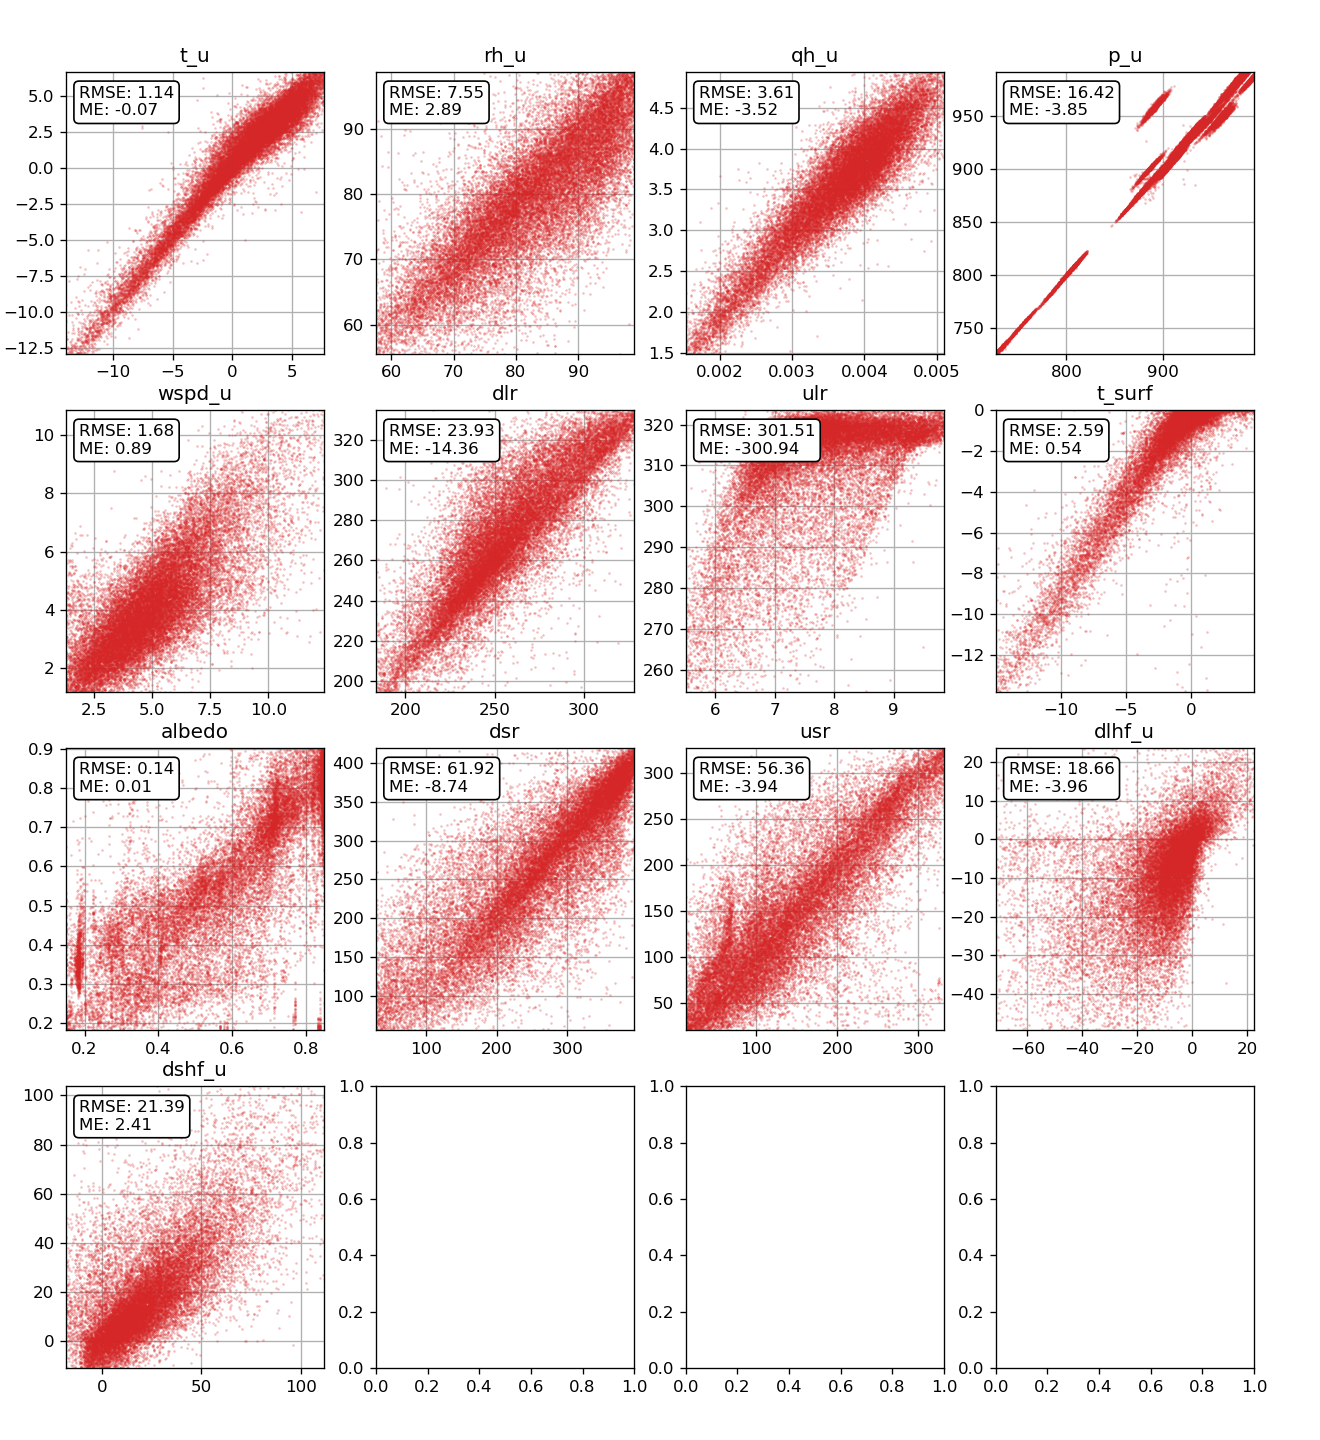
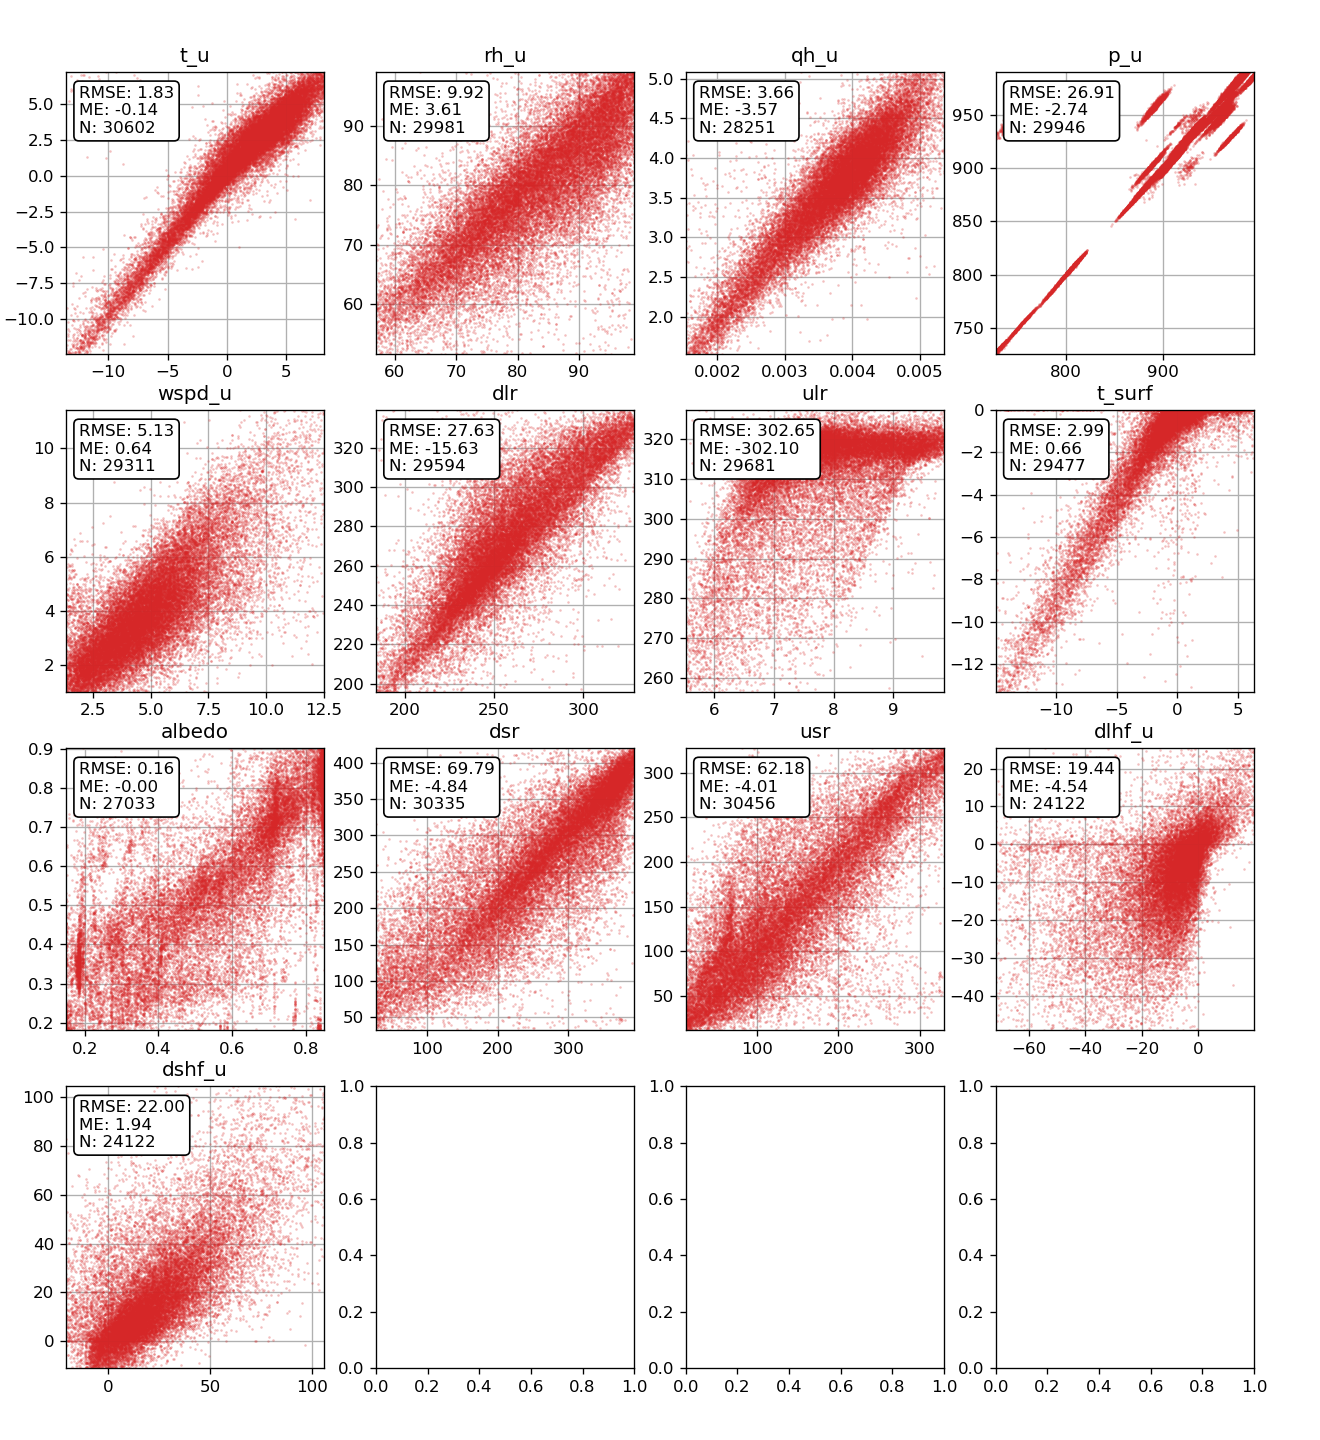
finishing adding gc-net stations

diff --git a/CARRA_evaluation_AWS_scatter.py b/CARRA_evaluation_AWS_scatter.py
@@ -23,33 +23,7 @@ fig_folder = 'figures/CARRA_vs_AWS/'
 variables = ['t_u', 'rh_u','rh_u_cor', 'qh_u','p_u', 'wspd_u','dlr', 'ulr', 
             't_surf',  'albedo', 'dsr', 'dsr_cor',  'usr',  'usr_cor','dlhf_u','dshf_u']
 
-df_meta = pd.read_csv(path_l3+'../AWS_metadata.csv')
-df_meta = df_meta.loc[df_meta.location_type == 'ice sheet']
-df_aws_all = pd.DataFrame()
-for station in df_meta.stid:    
-    try:
-        df_aws = pd.read_csv(path_l3 + station + '/'+station+'_day.csv')[['time']+variables]
-        df_aws.time = pd.to_datetime(df_aws.time, utc=True)
-        df_aws=df_aws.set_index('time')
-    except:
-        try:
-            path_to_gcnet = 'C:/Users/bav/OneDrive - GEUS/Code/PROMICE/GC-Net-Level-1-data-processing/L1/'
-            df_aws = nead.read(path_to_gcnet+'daily/'+station.replace(' ','')+'_daily.csv').to_dataframe()
-        except:
-            path_to_gcnet = 'C:/Users/bav/OneDrive - Geological Survey of Denmark and Greenland/Code/PROMICE/GC-Net-Level-1-data-processing/L1/'
-            df_aws = nead.read(path_to_gcnet+'daily/'+station.replace(' ','')+'_daily.csv').to_dataframe()
-        df_aws.timestamp = pd.to_datetime(df_aws.timestamp)
-        df_aws = df_aws.set_index('timestamp')
-        df_aws = df_aws.rename(columns={
-                    'ISWR':'dsr',  'OSWR':'usr', 
-                    'RH2':'rh_u_uncor','RH2_cor':'rh_u_cor', 'TA2':'t_u',
-                    'VW2':'wspd_u','P':'p_u','LHF':'dlhf_u',
-                    'Alb':'albedo','Q2':'sh_u','SHF':'dshf_u'
-                                        })[variables]
-    df_aws['station'] = station
-    df_aws_all = pd.concat((df_aws_all,df_aws))
-# df_aws_all = df_aws_all.set_index(['time','station'])
-
+# loading CARRA
 df_carra_all = (xr.open_dataset("./data/CARRA_at_AWS.nc")
                 .drop_vars([ 'x','y','surface','valid_time','spatial_ref',
                             'heightAboveGround','step'])[
@@ -67,12 +41,79 @@ df_carra_all = (xr.open_dataset("./data/CARRA_at_AWS.nc")
                         'sshf': 'dshf_u', }))
 df_carra_all = df_carra_all.groupby('stid').resample('D').mean()
 df_carra_all = df_carra_all.reset_index()
+df_carra_all['time'] = pd.to_datetime(df_carra_all.time, utc=True)
+# %% loading station data
 
+df_meta = pd.read_csv(path_l3+'../AWS_metadata.csv')
+df_meta = df_meta.loc[df_meta.location_type == 'ice sheet']
+df_aws_all = pd.DataFrame()
+for station in df_carra_all.stid.unique():    
+    try:
+        df_aws = pd.read_csv(path_l3 + station + '/'+station+'_day.csv')[['time']+variables]
+        df_aws.time = pd.to_datetime(df_aws.time, utc=True)
+        df_aws=df_aws.set_index('time')
+    except:
+        try:
+            path_to_gcnet = 'C:/Users/bav/OneDrive - GEUS/Code/PROMICE/GC-Net-Level-1-data-processing/L1/'
+            df_aws = nead.read(path_to_gcnet+'daily/'+station.replace(' ','')+'_daily.csv').to_dataframe()
+        except:
+            path_to_gcnet = 'C:/Users/bav/OneDrive - Geological Survey of Denmark and Greenland/Code/PROMICE/GC-Net-Level-1-data-processing/L1/'
+            try:
+                df_aws = nead.read(path_to_gcnet+'daily/'+station.replace(' ','')+'_daily.csv').to_dataframe()
+            except Exception as e:
+                print(station, 'skipped')
+                continue
+        df_aws.timestamp = pd.to_datetime(df_aws.timestamp)
+        df_aws = df_aws.set_index('timestamp')
+        df_aws = df_aws.rename(columns={
+                    'ISWR':'dsr',  'OSWR':'usr', 
+                    'RH2':'rh_u_uncor','RH2_cor':'rh_u_cor', 'TA2':'t_u',
+                    'VW2':'wspd_u','P':'p_u','LHF':'dlhf_u',
+                    'Alb':'albedo','Q2':'sh_u','SHF':'dshf_u'
+                                        })[[v for v in variables if v in df_aws.columns]]
+        for v in variables:
+            if v not in df_aws.columns:
+                df_aws[v] = np.nan
+    df_aws['stid'] = station
+    df_aws.index = pd.to_datetime(df_aws.index,utc=True)
+
+    # converting to a pandas dataframe and renaming some of the columns
+    df_carra = df_carra_all.loc[df_carra_all.stid==station,:].rename(columns={
+        't2m': 't_u', 'r2': 'rh_u',  'si10': 'wspd_u', 
+        'sp': 'p_u',  'sh2': 'qh_u', 'ssrd': 'dsr',
+        'ssru': 'usr', 'strd': 'dlr', 'stru': 'ulr','sshf': 'dshf_u',
+        'al': 'albedo', 'skt': 't_surf', 'slhf': 'dlhf_u' }).set_index('time')
+    df_carra['qh_u']  = df_carra.qh_u*1000  # kg/kg to g/kg
+
+    var = 't_u'
+    common_idx = df_aws.loc[df_aws[var].notnull()].index.intersection(df_carra.loc[df_carra[var.replace('_uncor','')].notnull()].index)
+
+    df_carra_filled = df_carra.loc[common_idx].resample('D').asfreq().fillna(method='ffill')
+    df_aws_filled = df_aws.loc[common_idx].resample('D').asfreq().fillna(method='ffill')
+    correlation = df_carra_filled[var.replace('_uncor', '')].corr(df_aws_filled[var])
+    max_corr = 0
+    best_shift = 0
+    
+    for shift in range(-10, 11):
+        df2_shifted = df_aws_filled.shift(shift).copy(deep=True)
+        correlation = df_carra_filled[var.replace('_uncor', '')].corr(df2_shifted[var])
+        if correlation > max_corr:
+            max_corr = correlation
+            best_shift = shift
+    
+    print(station, ", shift:", best_shift)
+    
+    df_aws = df_aws.shift(best_shift)  
+    
+    df_aws_all = pd.concat((df_aws_all,df_aws))
+df_aws_all = df_aws_all.reset_index().rename(columns={'index':'time'}).set_index(['time','stid'])
+
+# %% 
 station_overview = df_carra_all[['stid','latitude','longitude','altitude','altitude_mod']].drop_duplicates()
 station_overview['altitude_diff'] = station_overview.altitude_mod - station_overview.altitude
 station_overview.to_csv('station_overview.tsv', sep='\t')
 
-# %% 
+# %% Scatter all
 variables = ['t_u', 'rh_u', 'qh_u', 'p_u', 'wspd_u', 'dlr', 'ulr',
  't_surf', 'albedo', 'dsr', 'usr', 'dlhf_u', 'dshf_u']
 fig, ax = plt.subplots(4,4, figsize=(11, 12))
@@ -81,16 +122,17 @@ ax=ax.flatten()
             
 for i, var in enumerate(variables):
     print('# '+var)
-    df_aws = df_aws_all.set_index(['time','station'])[[var]]
+    # df_aws = df_aws_all.set_index(['time','station'])[[var]]
+    df_aws = df_aws_all[[var]]
+    df_aws = df_aws.loc[df_aws[var].notnull()]
     df_carra = df_carra_all.set_index(['time','stid'])[[var]]
     common_idx = df_aws.index.intersection(df_carra.index)
     df_aws = df_aws.loc[common_idx, :]
     df_carra = df_carra.loc[common_idx, :]
 
-    if len(df_carra)==0:
-        continue
     RMSE = np.sqrt(np.mean((df_carra-df_aws)**2))
     ME = (df_carra - df_aws).mean().item()
+    N = (df_carra - df_aws).count().item()
     # RMSE_JJA = np.sqrt(np.mean((df_carra-df_aws)**2))
     # ME_JJA = (df_carra - df_aws).mean().item()
         
@@ -98,13 +140,13 @@ for i, var in enumerate(variables):
              marker='.', ls='None', markersize=1,
              color='k', alpha=0.2, label=station)
     ax[i].set_title(var)
-    ax[i].set_xlim(df_carra[var].quantile(0.02).item(),df_carra[var].quantile(0.98).item())
-    ax[i].set_ylim(df_aws[var].quantile(0.02).item(),df_aws[var].quantile(0.98).item())
+    ax[i].set_xlim(df_carra[var].quantile(0.01).item(),df_carra[var].quantile(0.99).item())
+    ax[i].set_ylim(df_aws[var].quantile(0.01).item(),df_aws[var].quantile(0.99).item())
     ax[i].grid()
     
         
     # Annotate with RMSE and ME
-    ax[i].annotate(f'RMSE: {RMSE:.2f}\nME: {ME:.2f}', 
+    ax[i].annotate(f'RMSE: {RMSE:.2f}\nME: {ME:.2f}\nN: {N:.0f}', 
                   xy=(0.05, 0.95), xycoords='axes fraction', 
                   horizontalalignment='left', verticalalignment='top',
                   fontsize=10, bbox=dict(boxstyle="round,pad=0.3",
@@ -119,7 +161,9 @@ ax=ax.flatten()
             
 for i, var in enumerate(variables):
     print('# '+var)
-    df_aws = df_aws_all.loc[df_aws_all.time.dt.month.isin([6,7,8]),:].set_index(['time','station'])[[var]]
+    time_index = df_aws_all.index.get_level_values('time')
+    df_aws = df_aws_all.loc[time_index.month.isin([6,7,8]),:][[var]]
+    df_aws = df_aws.loc[df_aws[var].notnull()]
     df_carra = df_carra_all.loc[df_carra_all.time.dt.month.isin([6,7,8]),:].set_index(['time','stid'])[[var]]
     common_idx = df_aws.index.intersection(df_carra.index)
     df_aws = df_aws.loc[common_idx, :]
@@ -129,6 +173,7 @@ for i, var in enumerate(variables):
         continue
     RMSE = np.sqrt(np.mean((df_carra-df_aws)**2))
     ME = (df_carra - df_aws).mean().item()
+    N = (df_carra - df_aws).count().item()
     # RMSE_JJA = np.sqrt(np.mean((df_carra-df_aws)**2))
     # ME_JJA = (df_carra - df_aws).mean().item()
         
@@ -145,7 +190,7 @@ for i, var in enumerate(variables):
     
         
     # Annotate with RMSE and ME
-    ax[i].annotate(f'RMSE: {RMSE:.2f}\nME: {ME:.2f}', 
+    ax[i].annotate(f'RMSE: {RMSE:.2f}\nME: {ME:.2f}\nN: {N:.0f}', 
                   xy=(0.05, 0.95), xycoords='axes fraction', 
                   horizontalalignment='left', verticalalignment='top',
                   fontsize=10, bbox=dict(boxstyle="round,pad=0.3",
@@ -246,6 +291,6 @@ for var in var_list.keys():
     plot(fig, filename='figures/'+var_list[var]+'_scatter_plot.html')
 
 for var in var_list.keys():   
-    print('<iframe src="figures/'+var_list[var]+'_scatter_plot.html" width="800" height="600" style="border: 1px solid #ddd;"></iframe>')
-    print('<p>For a full-page view, you can also <a href="figures/'+var_list[var]+'_scatter_plot.html" target="_blank">open the plot in a new tab</a>.</p>')
+    print('<iframe src="figures/html/'+var_list[var]+'_scatter_plot.html" width="800" height="600" style="border: 1px solid #ddd;"></iframe>')
+    print('<p>For a full-page view, you can also <a href="figures/html/'+var_list[var]+'_scatter_plot.html" target="_blank">open the plot in a new tab</a>.</p>')
     print('')
